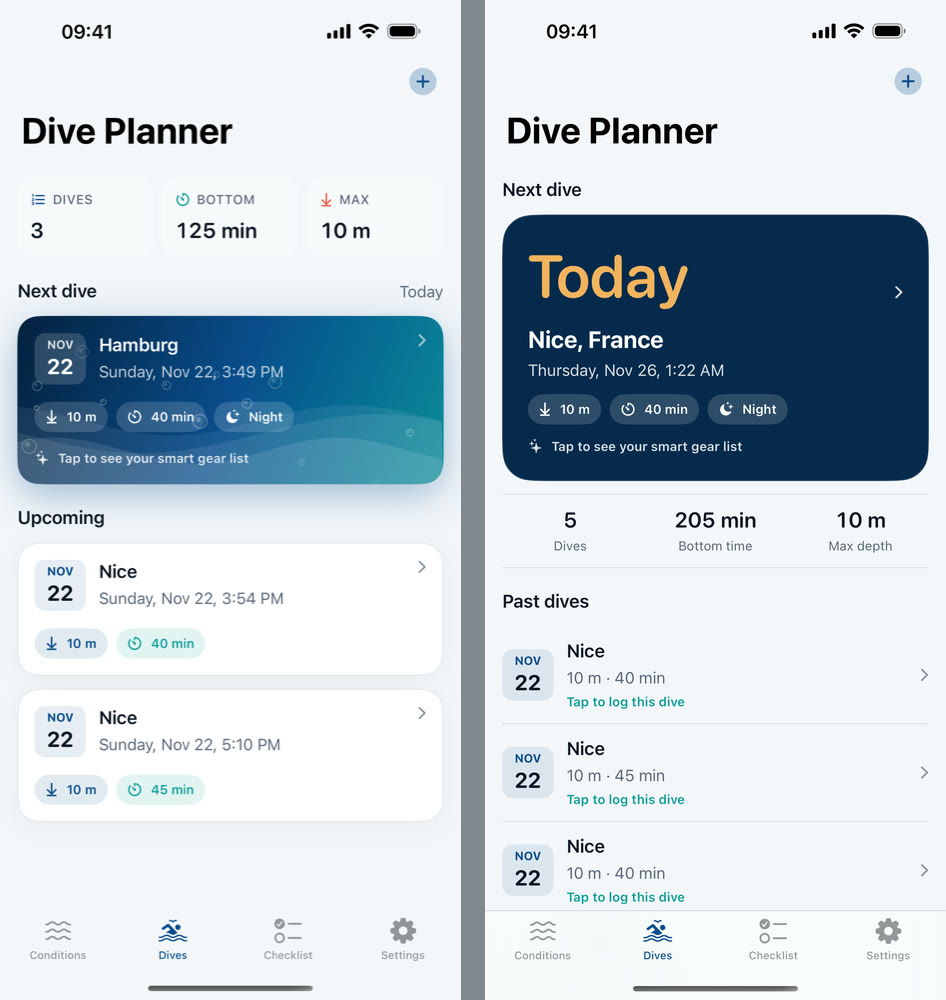
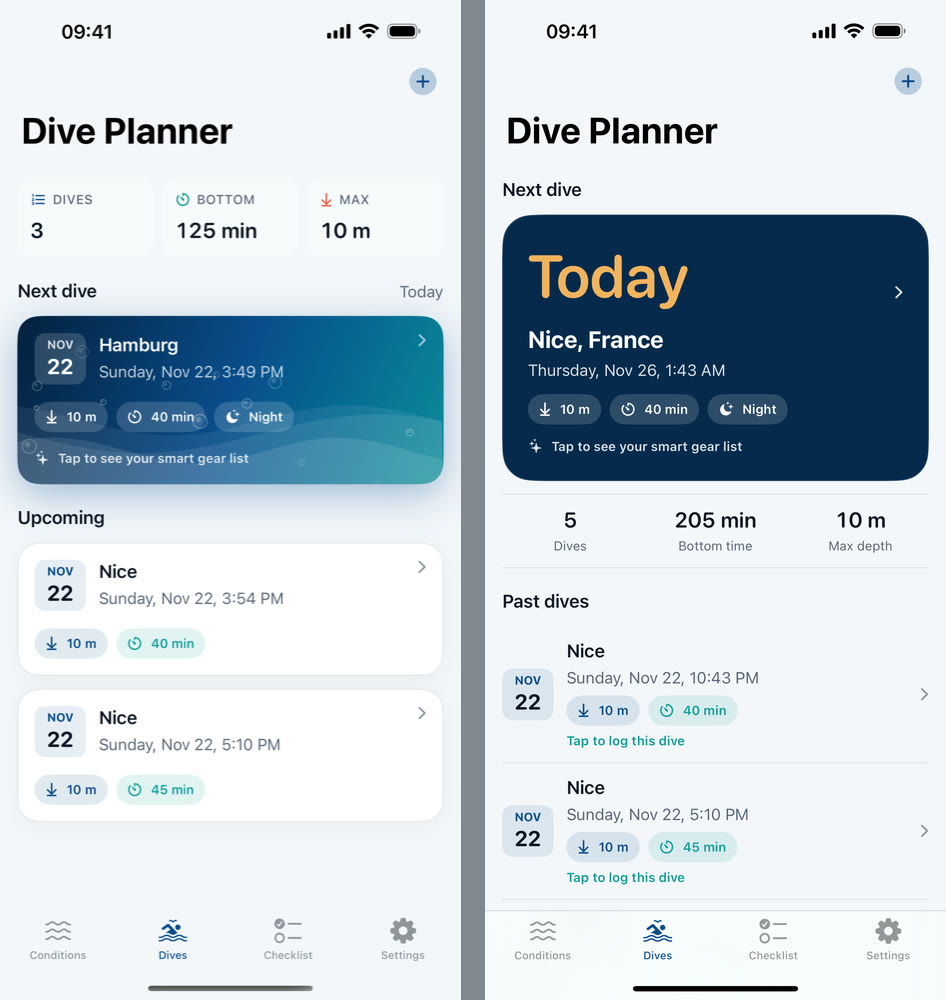
Restore date, time and dive type on the Dives list; keep UI tests in portrait

Changed region(s): [[0.5211, 0.651, 0.797, 0.899], [0.6744, 0.961, 0.8277, 0.992], [0.7051, 0.341, 0.7664, 0.372]]

diff --git a/DeepBlueWeather/Views/Screens/DivePlannerScreen.swift b/DeepBlueWeather/Views/Screens/DivePlannerScreen.swift
@@ -217,9 +217,14 @@ private struct DivePlanCard: View {
                     Text(plan.location.capitalized)
                         .font(.headline)
                         .foregroundStyle(Theme.textPrimary)
-                    Text(plan.countdownLabel ?? plan.date)
+                    Text(plan.dateText)
                         .font(.subheadline)
                         .foregroundStyle(Theme.textSecondary)
+                    if let countdown = plan.countdownLabel {
+                        Text(countdown)
+                            .font(.caption.weight(.semibold))
+                            .foregroundStyle(Theme.teal)
+                    }
                 }
 
                 Spacer(minLength: 0)
@@ -250,9 +255,11 @@ private struct PastDiveRow: View {
                 Text(plan.location.capitalized)
                     .font(.body.weight(.semibold))
                     .foregroundStyle(Theme.textPrimary)
-                Text("\(plan.depth) m · \(plan.duration) min")
+                Text(plan.dateText)
                     .font(.subheadline)
                     .foregroundStyle(Theme.textSecondary)
+                PlanTags(plan: plan)
+                    .padding(.vertical, 2)
                 if let log = plan.log {
                     HStack(spacing: 2) {
                         ForEach(1...5, id: \.self) { i in

diff --git a/DeepBlueWeather/Models/DivePlanEntity.swift b/DeepBlueWeather/Models/DivePlanEntity.swift
@@ -40,6 +40,11 @@ extension DivePlan {
             ?? DateFormatter.iso8601Full.date(from: date)
     }
 
+    /// Full date and time, or the stored text if it can't be parsed.
+    var dateText: String {
+        parsedDate.map { DateFormatter.readableDate.string(from: $0) } ?? date
+    }
+
     /// Calendar days from today to the dive.
     var daysAway: Int? {
         guard let parsedDate else { return nil }

diff --git a/DeepBlueWeatherUITests/DeepBlueWeatherUITests.swift b/DeepBlueWeatherUITests/DeepBlueWeatherUITests.swift
@@ -18,6 +18,8 @@ final class DeepBlueWeatherUITests: XCTestCase {
 
     override func setUpWithError() throws {
         continueAfterFailure = false
+        // The launch tests rotate the simulator; these flows expect portrait.
+        XCUIDevice.shared.orientation = .portrait
     }
 
     private func makeApp(_ extraArguments: [String] = []) -> XCUIApplication {
